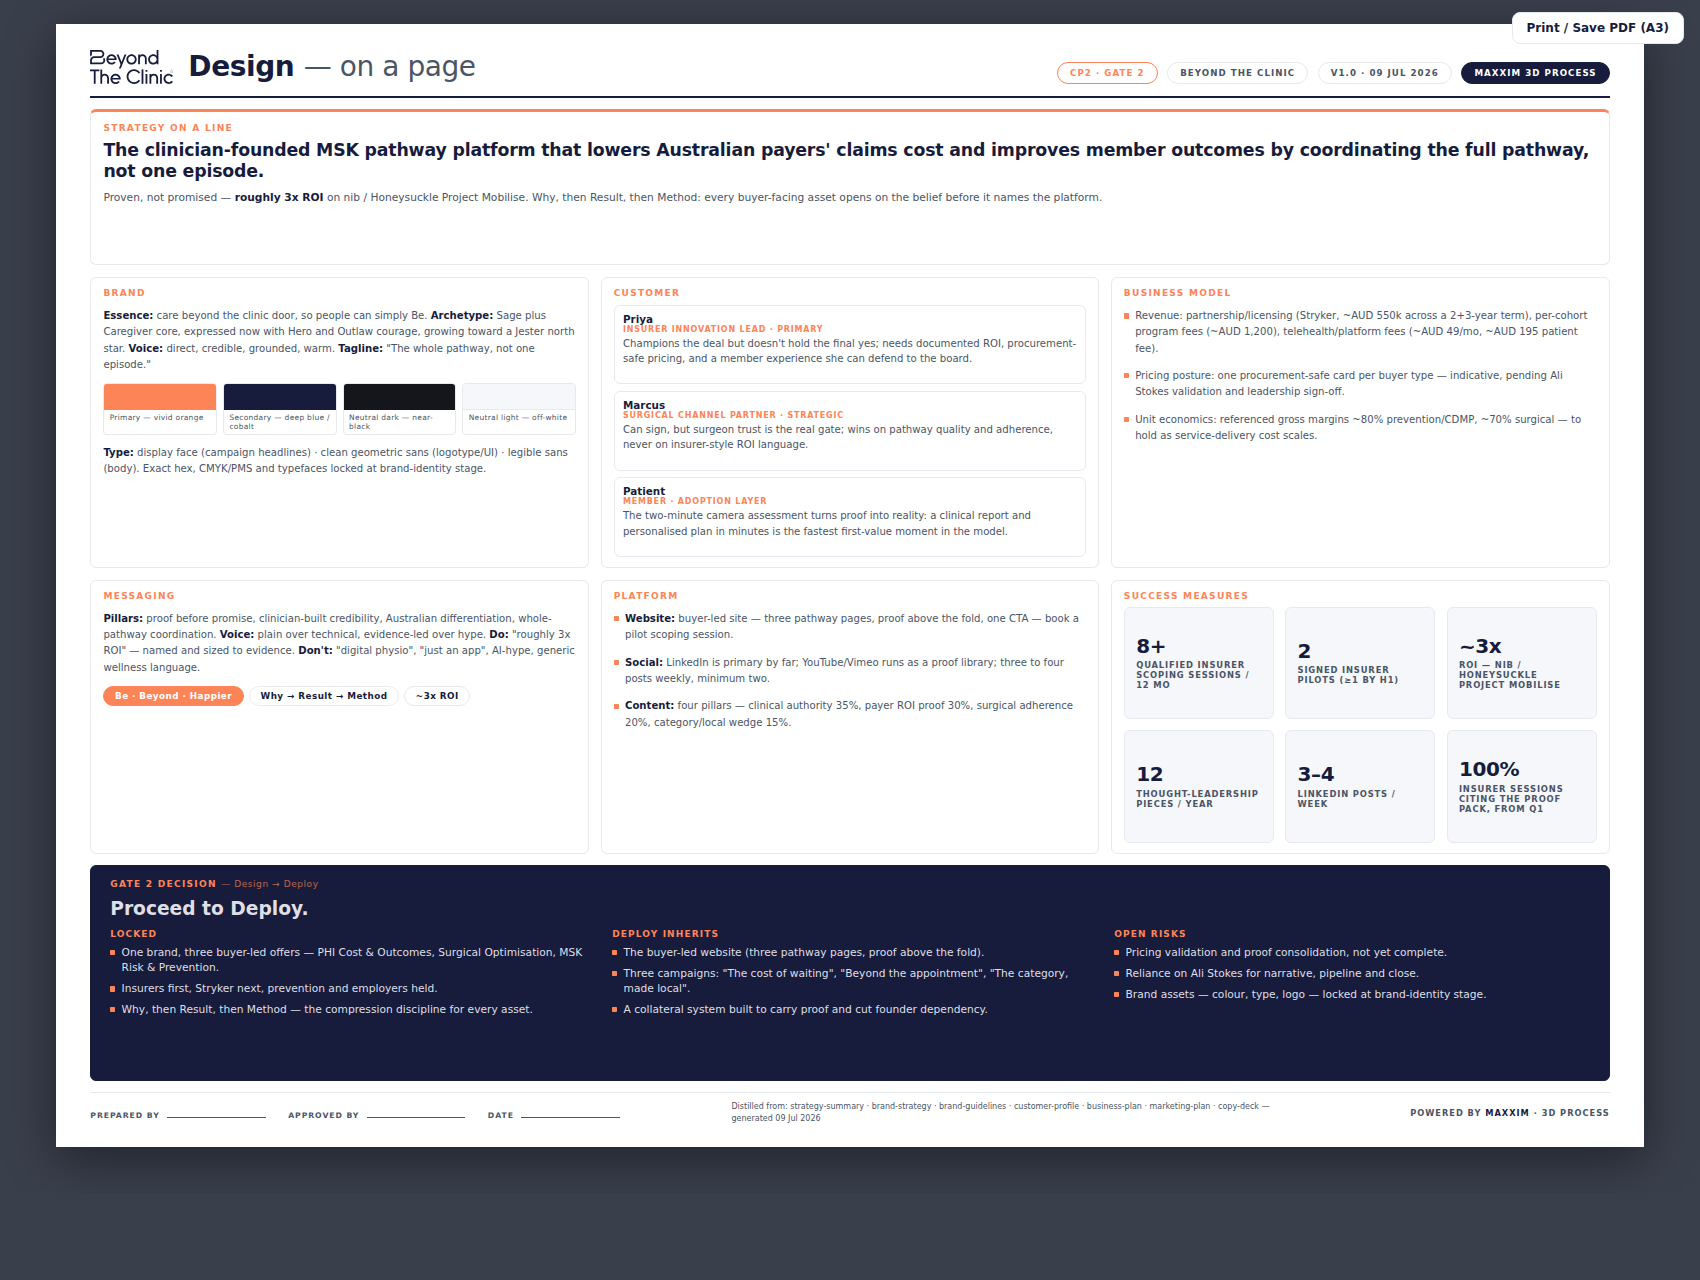
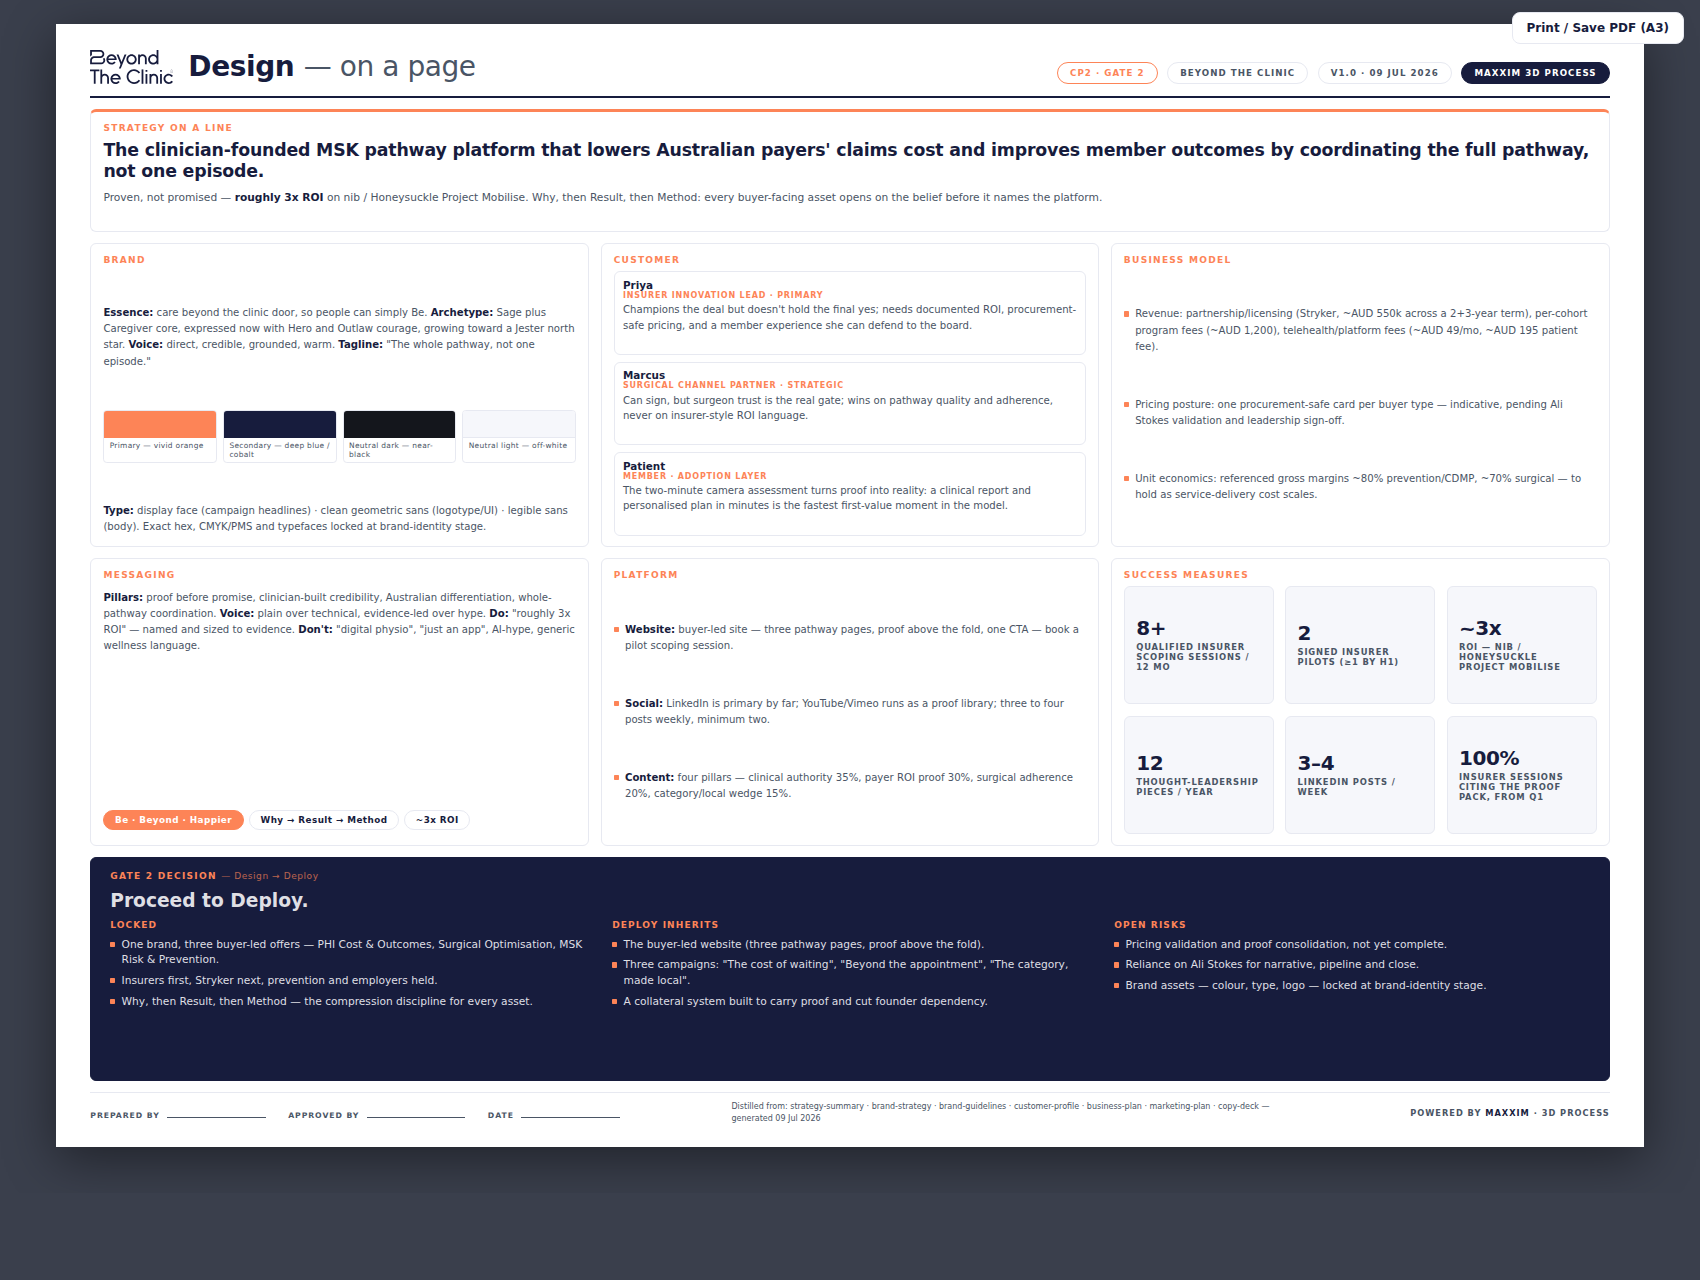
Continue on-a-page review-fix iteration
Claude-Session: https://claude.ai/code/session_015vKStpSbkM3gKrkRraETz5

diff --git a/docs/on-a-page/templates/design.a3.html b/docs/on-a-page/templates/design.a3.html
@@ -292,12 +292,11 @@ table.mini tr:nth-child(even) td { background: var(--tint); }
 /* --- content boxes: top-aligned (label pinned at the very top, content
        flows down from it); sparse boxes let their content distribute over
        the remaining height so nothing pools at the top --- */
-.b-brand, .b-business, .b-messaging, .b-platform { gap: 2.6mm; }
-.b-brand { justify-content: space-between; }
-.b-brand p, .b-messaging p { line-height: 1.6; }
+.b-brand, .b-business, .b-messaging, .b-platform { gap: 3.2mm; }
+.b-brand p, .b-messaging p { line-height: 1.62; }
 .b-business ul, .b-platform ul { flex: 1; display: flex; flex-direction: column; justify-content: space-evenly; gap: 2.6mm; }
 .b-business li, .b-platform li { margin-bottom: 0; line-height: 1.6; }
-.b-messaging .pills { margin-top: auto; padding-bottom: 1mm; }
+.b-messaging .pills { gap: 1.8mm; }
 
 /* --- customer box: persona cards stacked, compact --- */
 .b-customer { gap: 1.8mm; }
@@ -395,11 +394,14 @@ table.mini tr:nth-child(even) td { background: var(--tint); }
     <!-- slot: messaging | sources: copy-deck, brand-strategy | budget: 60 words | archetype notes: sme — pillars and tone applied as the brand-system voice guide, phrases rendered as reusable pills for a sales/marketing motion. -->
     <div class="box b-messaging">
       <span class="box-label">Messaging</span>
-      <p><strong>Pillars:</strong> proof before promise, clinician-built credibility, Australian differentiation, whole-pathway coordination. <strong>Voice:</strong> plain over technical, evidence-led over hype. <strong>Do:</strong> "roughly 3x ROI" — named and sized to evidence. <strong>Don't:</strong> "digital physio", "just an app", AI-hype, generic wellness language.</p>
+      <p><strong>Pillars:</strong> proof before promise, clinician-built credibility, Australian differentiation, whole-pathway coordination. <strong>Voice:</strong> plain over technical, evidence-led over hype, commercially clear over visionary.</p>
+      <p><strong>Do:</strong> "roughly 3x ROI" — named proof, sized to evidence. <strong>Don't:</strong> "digital physio", "just an app", AI-hype, generic wellness language. Predictive AI is roadmap, never present tense.</p>
       <div class="pills">
         <span class="pill hot">Be · Beyond · Happier</span>
         <span class="pill">Why → Result → Method</span>
         <span class="pill">~3x ROI</span>
+        <span class="pill">Book a pilot scoping session</span>
+        <span class="pill">The whole pathway, not one episode</span>
       </div>
     </div>
 

diff --git a/docs/on-a-page/templates/discover.a3.html b/docs/on-a-page/templates/discover.a3.html
@@ -267,7 +267,7 @@ table.mini tr:nth-child(even) td { background: var(--tint); }
 /* ---- overall canvas rhythm: three bands ------------------------------ */
 .canvas{
   /* rows sized by fr so THE CORE stays dense and rows 1/3 breathe */
-  grid-template-rows: minmax(0,1fr) minmax(0,1.62fr) minmax(0,0.7fr);
+  grid-template-rows: minmax(0,1.12fr) minmax(0,1.5fr) minmax(0,0.72fr);
 }
 
 /* band 1 — belief / ready / killer questions */
@@ -311,7 +311,11 @@ table.mini tr:nth-child(even) td { background: var(--tint); }
 .core-box table.mini td, .core-box table.mini th{ padding: 1.1mm 1.5mm; font-size: 6.6pt; }
 .core-box table.mini th{ font-size: 5.8pt; }
 
-.b-killer ol{ list-style: none; counter-reset: kq; display:flex; flex-direction:column; gap: 1.6mm; }
+/* distribute short checklists over the box height (breathing room, not clutter) */
+.b-ready .checklist{ flex: 1; align-content: space-evenly; }
+.b-ready .check .t{ font-size: 7.8pt; }
+
+.b-killer ol{ list-style: none; counter-reset: kq; display:flex; flex-direction:column; gap: 1.6mm; flex: 1; justify-content: space-evenly; }
 .b-killer ol li{ counter-increment: kq; padding-left: 5mm; position: relative; }
 .b-killer ol li::before{
   content: counter(kq); position:absolute; left:0; top:0;